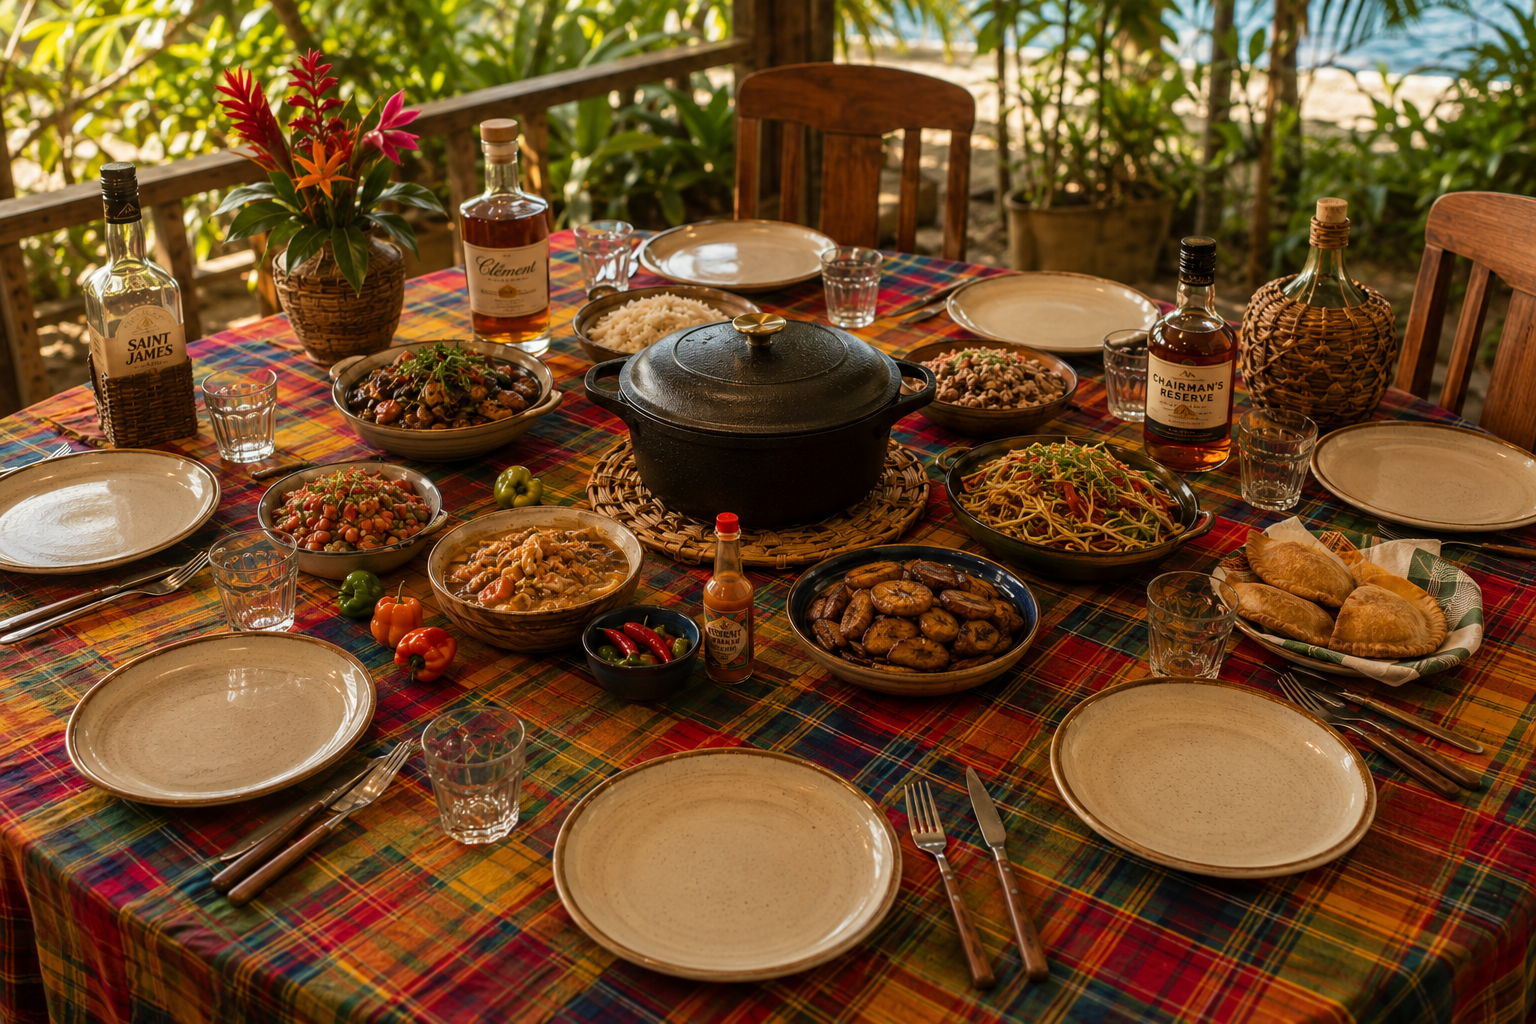
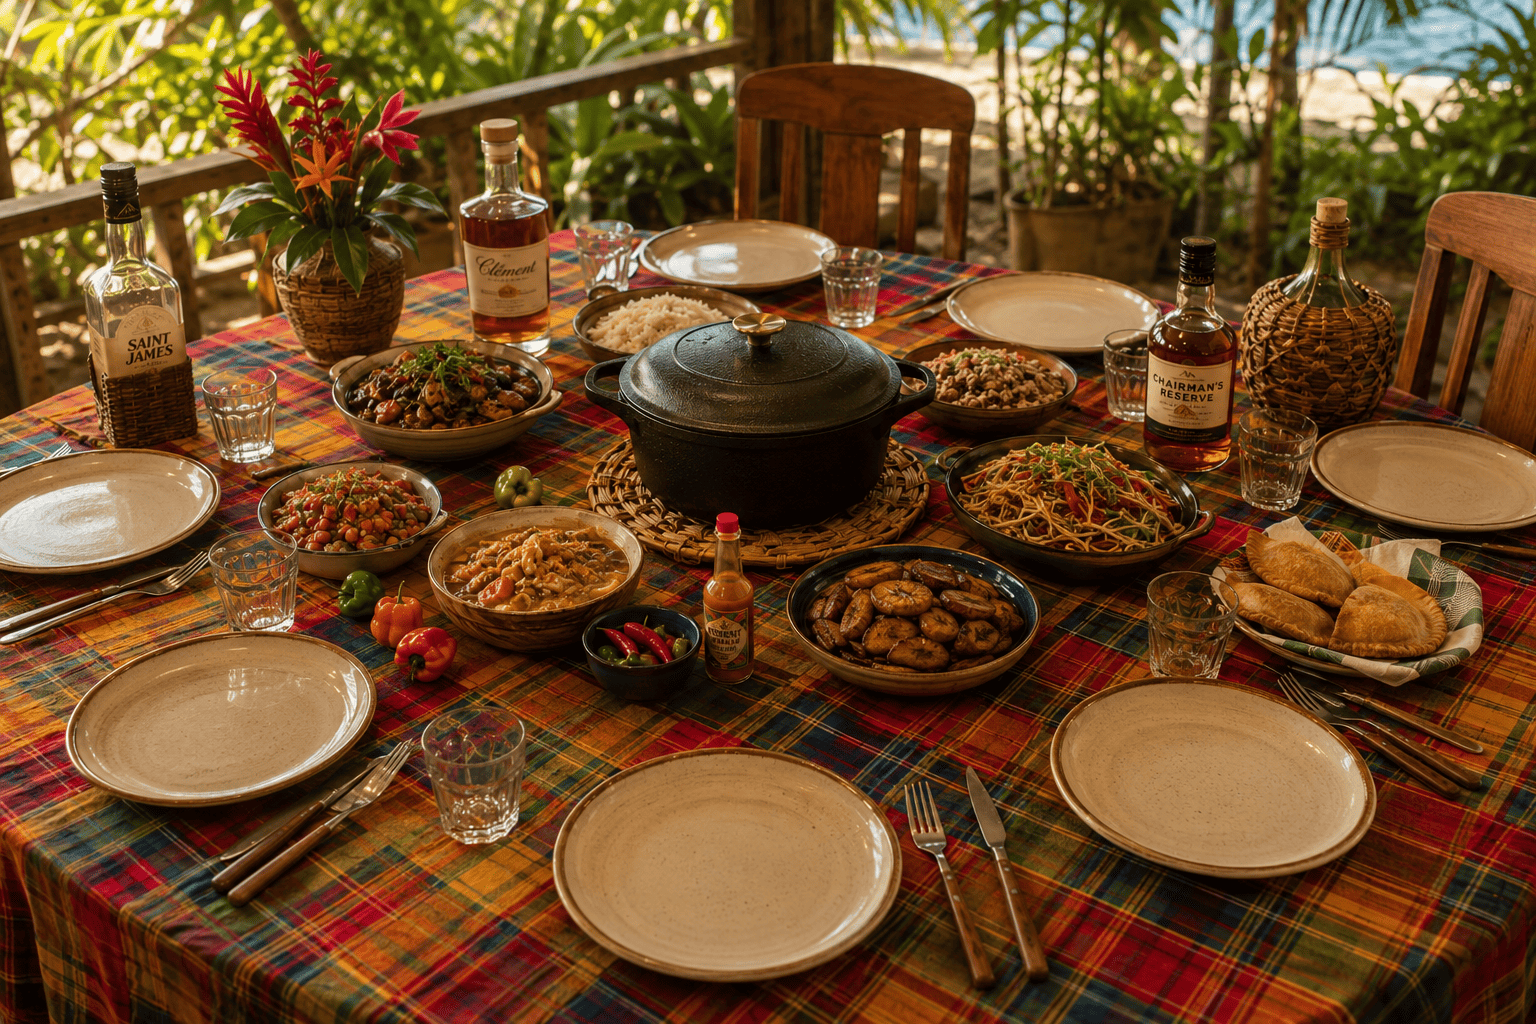
captcha

diff --git a/client/src/pages/RecipeDetailsPage.jsx b/client/src/pages/RecipeDetailsPage.jsx
@@ -1,4 +1,3 @@
-// Page fiche recette — affiche une recette complète (hero, ingrédients, étapes, conseils, partage).
 import { useEffect, useState } from "react";
 import { Link, useParams } from "react-router-dom";
 import { getFromApi, postToApi } from "../services/api";
@@ -47,14 +46,14 @@ function RecipeDetailsPage() {
     async function loadCommentsData() {
       try {
         const captchaData = await getFromApi("/api/captcha");
+
         setCaptchaQuestion(captchaData.question);
-        console.log("loadCommentsData — captcha:", captchaData.question);
 
         const commentsData = await getFromApi(`/api/recipes/${id}/comments`);
+
         setComments(commentsData);
-        console.log("loadCommentsData — count:", commentsData.length);
       } catch (err) {
-        console.log("loadCommentsData — erreur:", err.message);
+        setCommentError("Impossible de charger les commentaires.");
       }
     }
 
@@ -74,8 +73,6 @@ function RecipeDetailsPage() {
         content: content,
         captchaAnswer: captchaAnswer,
       });
-
-      console.log("handleCommentSubmit — ok:", newComment);
 
       setComments([newComment, ...comments]);
       setContent("");
@@ -205,29 +202,11 @@ function RecipeDetailsPage() {
         </p>
       </section>
 
-
       {/* Commentaires */}
       <section className="recipe-detail__comments">
         <h2 className="recipe-detail__section-title">Commentaires</h2>
 
-        {comments.length === 0 && (
-          <p className="recipe-detail__comments-empty">
-            Aucun commentaire pour l'instant. Soyez le premier à réagir !
-          </p>
-        )}
-
-        {comments.length > 0 && (
-          <ul className="recipe-detail__comment-list">
-            {comments.map(function (comment) {
-              return (
-                <li key={comment.id} className="recipe-detail__comment-item">
-                  <strong>{comment.pseudo}</strong>
-                  <p>{comment.content}</p>
-                </li>
-              );
-            })}
-          </ul>
-        )}
+        
 
         <form
           className="recipe-detail__comment-form"
@@ -277,14 +256,33 @@ function RecipeDetailsPage() {
             <p className="recipe-detail__comment-error">{commentError}</p>
           )}
 
-          <Button
+          <button
             type="submit"
-            className="btn--primary"
+            className="btn btn--primary"
             disabled={isSubmitting}
           >
             Publier
-          </Button>
+          </button>
         </form>
+
+        {comments.length === 0 && (
+          <p className="recipe-detail__comments-empty">
+            Aucun commentaire pour l'instant. Soyez le premier à réagir !
+          </p>
+        )}
+
+        {comments.length > 0 && (
+          <ul className="recipe-detail__comment-list">
+            {comments.map(function (comment) {
+              return (
+                <li key={comment.id} className="recipe-detail__comment-item">
+                  <strong>{comment.pseudo}</strong>
+                  <p>{comment.content}</p>
+                </li>
+              );
+            })}
+          </ul>
+        )}
       </section>
     </main>
   );

diff --git a/server/controllers/commentController.js b/server/controllers/commentController.js
@@ -4,9 +4,6 @@ import Recipe from '../models/Recipe.js';
 export async function listComments(req, res, next) {
   try {
     const recipeId = req.params.id;
-
-    console.log('GET /api/recipes/:id/comments — recipeId:', recipeId);
-
     const recipe = await Recipe.findByPk(recipeId);
 
     if (!recipe) {
@@ -17,8 +14,6 @@ export async function listComments(req, res, next) {
         order: [['createdAt', 'DESC']],
       });
 
-      console.log('GET /api/recipes/:id/comments — count:', comments.length);
-
       res.json(comments);
     }
   } catch (err) {
@@ -27,29 +22,24 @@ export async function listComments(req, res, next) {
 }
 
 export async function createComment(req, res, next) {
-    try {
-      const recipeId = req.params.id;
-      const pseudo = req.body.pseudo;
-      const content = req.body.content;
-  
-      console.log('POST /api/recipes/:id/comments — body:', req.body);
-  
-      const recipe = await Recipe.findByPk(recipeId);
-  
-      if (!recipe) {
-        res.status(404).json({ error: 'Recette introuvable' });
-      } else {
-        const comment = await Comment.create({
-          recipeId: recipeId,
-          pseudo: pseudo,
-          content: content,
-        });
-  
-        console.log('POST /api/recipes/:id/comments — created id:', comment.id);
-  
-        res.status(201).json(comment);
-      }
-    } catch (err) {
-      next(err);
+  try {
+    const recipeId = req.params.id;
+    const pseudo = req.body.pseudo;
+    const content = req.body.content;
+    const recipe = await Recipe.findByPk(recipeId);
+
+    if (!recipe) {
+      res.status(404).json({ error: 'Recette introuvable' });
+    } else {
+      const comment = await Comment.create({
+        recipeId: recipeId,
+        pseudo: pseudo,
+        content: content,
+      });
+
+      res.status(201).json(comment);
     }
+  } catch (err) {
+    next(err);
   }
+}

diff --git a/server/middlewares/verifyCaptcha.js b/server/middlewares/verifyCaptcha.js
@@ -1,15 +1,13 @@
 export default function verifyCaptcha(req, res, next) {
-    const expected = req.session.captchaAnswer;
-    const given = Number(req.body.captchaAnswer);
-  
-    console.log('verifyCaptcha — attendu:', expected, '· reçu:', given);
-  
-    if (expected === undefined || expected === null) {
-      res.status(400).json({ error: 'Captcha expiré, rechargez la page' });
-    } else if (given !== expected) {
-      res.status(400).json({ error: 'Réponse captcha incorrecte' });
-    } else {
-      delete req.session.captchaAnswer;
-      next();
-    }
+  const expected = req.session.captchaAnswer;
+  const given = Number(req.body.captchaAnswer);
+
+  if (expected === undefined || expected === null) {
+    res.status(400).json({ error: 'Captcha expiré, rechargez la page' });
+  } else if (given !== expected) {
+    res.status(400).json({ error: 'Réponse captcha incorrecte' });
+  } else {
+    delete req.session.captchaAnswer;
+    next();
   }
+}

diff --git a/server/controllers/captchaController.js b/server/controllers/captchaController.js
@@ -1,14 +1,8 @@
-// Génère une addition simple stockée en session.
-
 export function getCaptcha(req, res) {
-    const a = Math.floor(Math.random() * 9) + 1;
-    const b = Math.floor(Math.random() * 9) + 1;
-  
-    req.session.captchaAnswer = a + b;
-  
-    console.log('GET /api/captcha — question:', a, '+', b);
-  
-    res.json({
-      question: a + ' + ' + b + ' = ?',
-    });
-  }
+  const a = Math.floor(Math.random() * 9) + 1;
+  const b = Math.floor(Math.random() * 9) + 1;
+
+  req.session.captchaAnswer = a + b;
+
+  res.json({ question: a + ' + ' + b + ' = ?' });
+}

diff --git a/server/routes/recipeRoutes.js b/server/routes/recipeRoutes.js
@@ -14,7 +14,6 @@ const router = Router();
 
 router.post('/', requireAdmin, createRecipeRules, validate, createRecipe);
 router.post('/:id/photo', requireAdmin, uploadRecipePhoto, addRecipePhoto);
-router.post('/:id/comments', createCommentRules, validate, createComment);
 router.post('/:id/comments', createCommentRules, validate, verifyCaptcha, createComment);
 
 router.get('/', listRecipes);

diff --git a/client/src/pages/RecipeDetailsPage.css b/client/src/pages/RecipeDetailsPage.css
@@ -184,8 +184,8 @@
 }
 
 .recipe-detail__comment-item {
-  border-bottom: 1px solid var(--tc-border);
-  padding: 0.75rem 0;
+  border-top: 1px solid var(--tc-border);
+  padding: 1.75rem 0;
 }
 
 .recipe-detail__comment-item p {
@@ -197,6 +197,7 @@
   display: flex;
   flex-direction: column;
   gap: 0.75rem;
+  padding-bottom: 2rem;
 }
 
 .recipe-detail__comment-form label {
